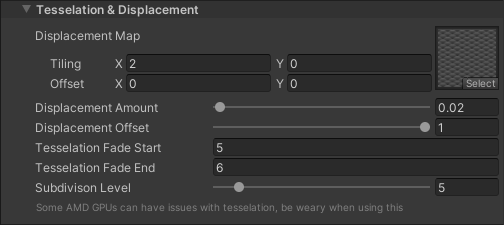
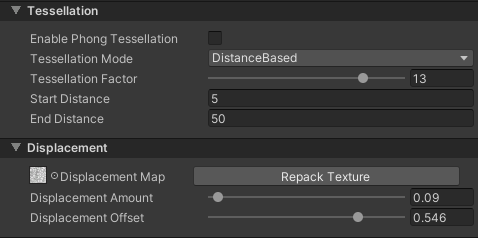
improved tessellated displacement docs

diff --git a/src/pages/docs/orl-standard/tessellated-displacement.md b/src/pages/docs/orl-standard/tessellated-displacement.md
@@ -21,9 +21,17 @@ Older AMD GPUs are also known to have issues with Tessellation, so it might be a
 
 ## Settings
 
-- Displacement Map: The height texture to use for displacement. This **MUST** be set to linear (the sRGB checkbox unchecked on the texture importer)
-- Displacement Amount: The amount of vertex displacement to apply
-- Displacement Offset: The base offset of the height texture. Changing this value practically moves the zero point of the texture up and down. Generally speaking, this allows you to normalize some more extreme height maps so your mesh doesnt become too big or too small
-- Tessellation Fade Start: Controls the distance at which the Tessellation level will start to decrease
-- Tessellation Fade End: Controls the distance at which the Tessellation will stop subdividing the mesh completely
-- Subdivision Level: Controls the maximum count of subdivisions
+- Enable Phong Tessellation: Enables the Phong smoothing during tessellation. This will effectively add as a "subdivision" effect, smoothing curved surfaces.
+- Tessellation Mode: Controls how the tessellation will be applied
+  - Static: The tessellation will be applied at a fixed level
+  - Distance Based: The tessellation will be based on the distance from the camera
+  - Edge Length: The tessellation will be based on the edge length of the triangles in screen space. The longer the edge - the more subdivisions will be applied
+- Tessellation Factor: Controls the maximum amount of subdivisions to apply. This is only visible when **Static** or **Distance Based** **Tessellation mode** is used.
+- Start Distance: Sets the distance at which the tessellation will start fading out. Only visible when **Distance Based** **Tessellation mode** is used.
+- End Distance: Sets the distance at which the tessellation will disengage completely. Only visible when **Distance Based** **Tessellation mode** is used.
+- Max Edge Length: Sets the edge length at which the maximum tessellation factor will apply. Only visible when **Edge Length** **Tessellation mode** is used.
+- Max Displacement: The maximum amount of world-space displacement you're expecting to see. If your triangles are starting to disappear - you will need to increase this value. Only visible when **Edge Length** **Tessellation mode** is used.
+
+- Displacement Map: Controls the strength of displacement over surface. Usually the same as the Height map used for parallax.
+- Displacement Amount: The amount of vertex displacement to apply.
+- Displacement Offset: The base offset of the height texture. Changing this value practically moves the zero point of the texture up and down. Generally speaking, this allows you to normalize some more extreme height maps so your mesh doesnt become too big or too small.
